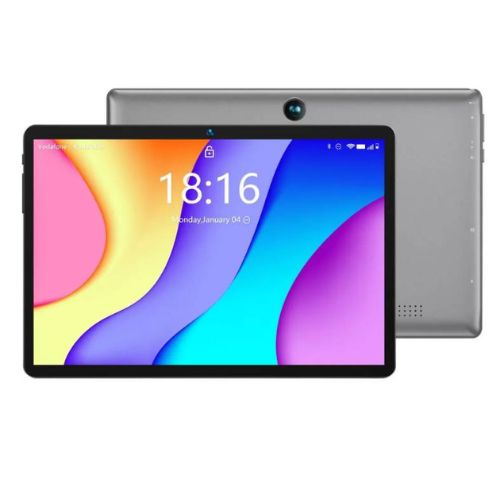
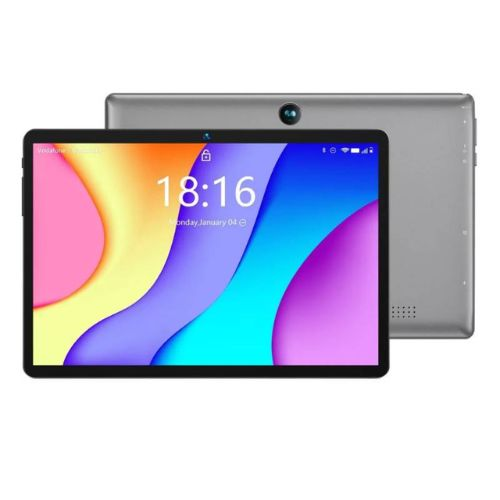
mise à jour du projet

diff --git a/controllers/pieces_jointes.controller.js b/controllers/pieces_jointes.controller.js
@@ -1,8 +1,5 @@
 const PiecesJointes = require("../models/pieces_jointes.model");
 
-// =========================
-// CREATE
-// =========================
 exports.create = async (req, res) => {
   try {
     const piece = new PiecesJointes(req.body);
@@ -13,9 +10,6 @@ exports.create = async (req, res) => {
   }
 };
 
-// =========================
-// GET ALL
-// =========================
 exports.getAll = async (req, res) => {
   try {
     const pieces = await PiecesJointes.find();
@@ -25,53 +19,30 @@ exports.getAll = async (req, res) => {
   }
 };
 
-// =========================
-// GET BY ID
-// =========================
 exports.getById = async (req, res) => {
   try {
     const piece = await PiecesJointes.findById(req.params.id);
-    if (!piece) {
-      return res.status(404).json({ message: "Pièce jointe non trouvée" });
-    }
+    if (!piece) return res.status(404).json({ message: "Pièce jointe non trouvée" });
     res.json(piece);
   } catch (error) {
     res.status(500).json({ message: error.message });
   }
 };
 
-// =========================
-// UPDATE
-// =========================
 exports.update = async (req, res) => {
   try {
-    const updatedPiece = await PiecesJointes.findByIdAndUpdate(
-      req.params.id,
-      req.body,
-      { new: true }
-    );
-
-    if (!updatedPiece) {
-      return res.status(404).json({ message: "Pièce jointe non trouvée" });
-    }
-
+    const updatedPiece = await PiecesJointes.findByIdAndUpdate(req.params.id, req.body, { new: true });
+    if (!updatedPiece) return res.status(404).json({ message: "Pièce jointe non trouvée" });
     res.json(updatedPiece);
   } catch (error) {
     res.status(400).json({ message: error.message });
   }
 };
 
-// =========================
-// DELETE
-// =========================
 exports.delete = async (req, res) => {
   try {
     const deletedPiece = await PiecesJointes.findByIdAndDelete(req.params.id);
-
-    if (!deletedPiece) {
-      return res.status(404).json({ message: "Pièce jointe non trouvée" });
-    }
-
+    if (!deletedPiece) return res.status(404).json({ message: "Pièce jointe non trouvée" });
     res.json({ message: "Pièce jointe supprimée avec succès" });
   } catch (error) {
     res.status(500).json({ message: error.message });